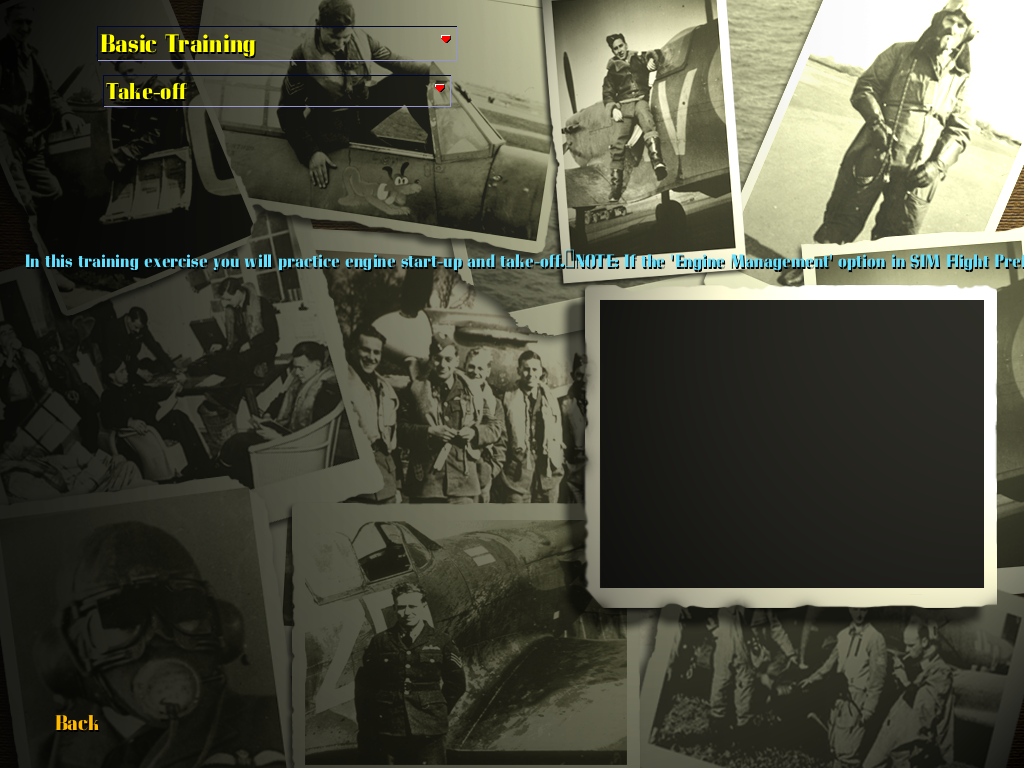
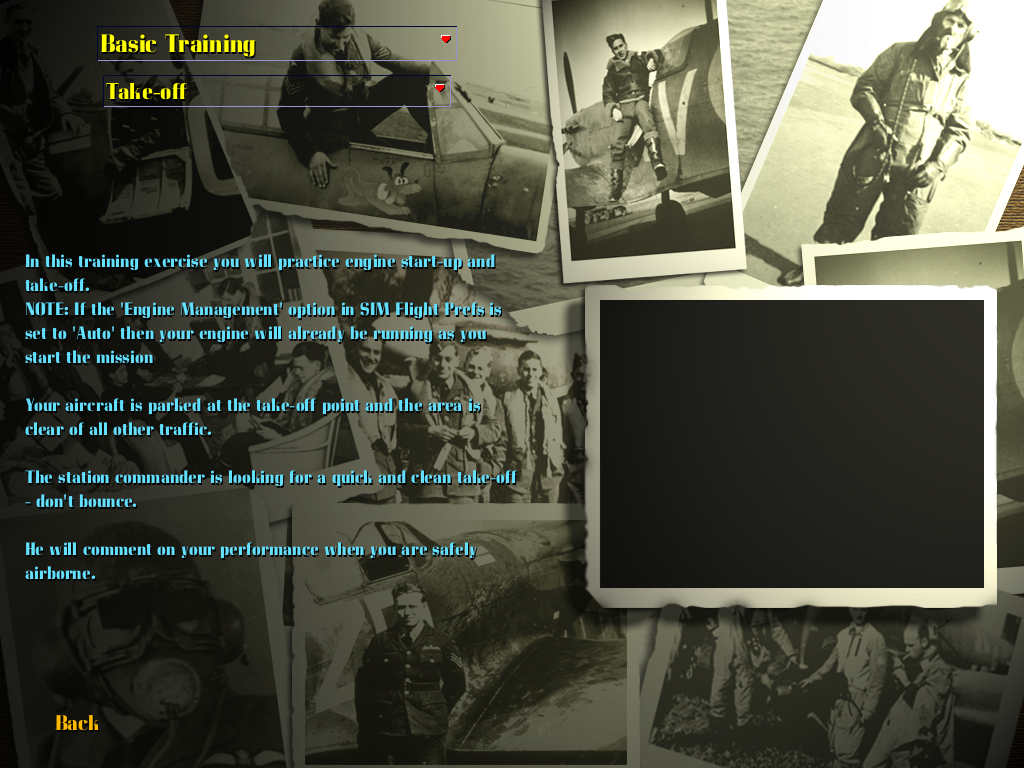
Scrum Sprint 127: label-render fidelity — DT_WORDBREAK word-wrap + '&' accelerator escape in CDC::DrawText
Two contained wins in the one compat method that renders every R* STATIC label
(afxwin.h CDC::DrawText). The genuine CRStaticCtrl::OnDraw draws prose via
DrawText(..., DT_LEFT+DT_WORDBREAK) but compat ignored DT_WORDBREAK and did no
'&' processing; combos/buttons/listboxes draw via ExtTextOut, so both fixes are
scoped to the static path and cannot touch combo/button text.

S127.1 word-wrap (R6.2; MA note 17 shared find): real greedy word-wrap honouring
explicit \n and DT_CENTER/RIGHT, clipped to box. ≥2-line-box guard so single-line
config labels never wrap (our stencil font is wider than gold's). Phase-select #16
+ Quick-Shots #2 descriptions now wrap in their boxes. BOB_NO_WORDWRAP reverts.

S127.2 '&' escape: Windows accelerator-prefix processing ("&&"->"&", DT_NOPREFIX-
aware) -> BDG "Cockpit && UI" renders "Cockpit & UI" (#8). BOB_NO_AMP_ESCAPE reverts.

Verdicts: #16 PARTIAL->CLOSE, #8 CLOSE, #2 improved (parity 16 CLOSE / 1 PARTIAL /
3 GAP of 19). Gates: build clean; 14-recipe headless sweep 14/14; surgical diffs,
no config-label wrap regression (Sound long labels single-line); safe default
./bob exit 0; flight frame-150 95.2% non-black on :0; dummy==GL cmp byte-identical
on mainmenu + the changed phaseselect. MA note 17 mechanism #2 (parent-rect clip)
assessed N/A; outbound BoB note = shared-doc §8o (MA copy synced byte-identical).

Changed region(s): [[0.0312, 0.3438, 0.5, 0.7812], [0.5, 0.3125, 1.0, 0.375]]

diff --git a/SRC/compat/afxwin.h b/SRC/compat/afxwin.h
@@ -634,16 +634,97 @@ public:
     }
     CSize GetOutputTextExtent(LPCSTR s, int len) const { return GetTextExtent(s, len); }
     int  DrawText(LPCSTR s, int len, LPRECT r, UINT format) {
-        /* R* static labels draw via DrawText (DT_LEFT/DT_CENTER). Render a single
-           line into the framebuffer at the rect, honouring left/centre alignment. */
-        if (m_bobScreen && s && r) {
-            char buf[256]; int n = len < 0 ? (int)strlen(s) : len; if (n > 255) n = 255;
-            memcpy(buf, s, n); buf[n] = 0;
-            int x = r->left, y = r->top;
-            if (format & DT_CENTER) { int tw = bob_gdi_text_width(buf, m_bobTextH); x = r->left + ((r->right - r->left) - tw) / 2; }
-            bob_gdi_text(m_bobVpX + x, m_bobVpY + y, buf, m_bobTextH, bobColor(m_textColor));
+        /* S127: real DrawText for R* STATIC labels (CRStaticCtrl::OnDraw is the only
+           caller — combos/buttons/listboxes draw via ExtTextOut). Honours
+           DT_WORDBREAK multi-line word-wrap (long prose was drawing one clipped line
+           running off the panel edge — the phase-select/QS descriptions; MA note 17
+           shared find) and Windows '&' accelerator-prefix processing ("&&"->"&", a
+           lone '&' removed — BDG's "Cockpit && UI" -> "Cockpit & UI", gold #8).
+           BOB_NO_WORDWRAP / BOB_NO_AMP_ESCAPE revert each. */
+        if (!s || !r) return m_bobTextH;
+        char raw[512]; int n = len < 0 ? (int)strlen(s) : len; if (n < 0) n = 0; if (n > 511) n = 511;
+        memcpy(raw, s, n); raw[n] = 0;
+
+        static int noAmp = -1; if (noAmp < 0) noAmp = getenv("BOB_NO_AMP_ESCAPE") ? 1 : 0;
+        char buf[512];
+        if (!noAmp && !(format & DT_NOPREFIX)) {
+            int j = 0;
+            for (int i = 0; raw[i] && j < 511; i++) {
+                if (raw[i] == '&') { if (raw[i+1] == '&') { buf[j++] = '&'; i++; } /* lone '&': prefix marker, dropped */ }
+                else buf[j++] = raw[i];
+            }
+            buf[j] = 0;
+        } else { memcpy(buf, raw, (size_t)n + 1); }
+
+        int boxw = r->right - r->left;
+        int pitch = (m_bobTextH > 0 ? m_bobTextH : 16) + 2;
+
+        static int noWrap = -1; if (noWrap < 0) noWrap = getenv("BOB_NO_WORDWRAP") ? 1 : 0;
+        /* Only wrap boxes tall enough to be a genuine multi-line area (>=2 lines):
+           config LABELS also pass DT_WORDBREAK but sit in single-line boxes — keep
+           their one-line render (our font may be wider than gold's, so wrapping a
+           label that fits on Windows would spill into the row below). Descriptions
+           (the tall PhaseDescription/QS statics) are the real wrap targets. */
+        bool wrap = (format & DT_WORDBREAK) && !(format & DT_SINGLELINE) && !noWrap
+                    && boxw > 8 && (r->bottom - r->top) >= 2 * pitch;
+
+        /* helper: place one line honouring DT_CENTER/DT_RIGHT within [left,right] */
+        if (!wrap) {
+            int tw = bob_gdi_text_width(buf, m_bobTextH);
+            int x = r->left;
+            if (format & DT_CENTER) x = r->left + (boxw - tw) / 2;
+            else if (format & DT_RIGHT) x = r->right - tw;
+            if (!(format & DT_CALCRECT) && m_bobScreen)
+                bob_gdi_text(m_bobVpX + x, m_bobVpY + r->top, buf, m_bobTextH, bobColor(m_textColor));
+            return m_bobTextH;
         }
-        return m_bobTextH;
+
+        /* greedy word-wrap; honour explicit '\n'. Clip vertically to the box for a
+           genuine multi-line area; a single-line box (h < 2*pitch) draws its one line. */
+        int y = r->top;
+        int clipBottom = (r->bottom - r->top) >= 2 * pitch ? r->bottom : 0x7fffffff;
+        char line[512]; int ll = 0;
+        int i = 0;
+        while (buf[i] || ll) {
+            char c = buf[i];
+            bool forceBreak = (c == '\n') || (c == 0);
+            if (c == '\n') i++;
+            if (!forceBreak) {
+                /* accumulate one word (up to the next space/newline/end) */
+                int ws = i; while (buf[i] && buf[i] != ' ' && buf[i] != '\n') i++;
+                int wl = i - ws;
+                /* build candidate line = current + optional space + word */
+                char cand[512]; int cl = 0;
+                memcpy(cand, line, ll); cl = ll;
+                if (cl && cl < 511) cand[cl++] = ' ';
+                for (int k = 0; k < wl && cl < 511; k++) cand[cl++] = buf[ws + k];
+                cand[cl] = 0;
+                if (ll == 0 || bob_gdi_text_width(cand, m_bobTextH) <= boxw) {
+                    memcpy(line, cand, cl + 1); ll = cl;
+                    while (buf[i] == ' ') i++;   /* swallow trailing spaces */
+                    if (buf[i]) continue;        /* more text -> keep packing */
+                    forceBreak = true;           /* end of string -> flush last line */
+                } else {
+                    /* word doesn't fit: flush current line, retry word on a fresh line */
+                    forceBreak = true;
+                    i = ws;                      /* re-process this word next iteration */
+                }
+            }
+            if (forceBreak) {
+                if (y + m_bobTextH > clipBottom) break;
+                line[ll] = 0;
+                int tw = bob_gdi_text_width(line, m_bobTextH);
+                int x = r->left;
+                if (format & DT_CENTER) x = r->left + (boxw - tw) / 2;
+                else if (format & DT_RIGHT) x = r->right - tw;
+                if (!(format & DT_CALCRECT) && m_bobScreen && ll)
+                    bob_gdi_text(m_bobVpX + x, m_bobVpY + y, line, m_bobTextH, bobColor(m_textColor));
+                y += pitch; ll = 0;
+                if (buf[i] == 0) break;
+            }
+        }
+        if (format & DT_CALCRECT) r->bottom = y;
+        return y - r->top;
     }
     UINT SetTextAlign(UINT) { return 0; }
     int  SetMapMode(int) { return 0; }

diff --git a/scrum.md b/scrum.md
@@ -176,7 +176,7 @@ The DoD increment shipped (bare `./bob` boots + plays, no env vars) and a human 
 | ID | Story | Pts | Status |
 |---|---|---|---|
 | R6.1 | **Front-end blit subsystem** — ◐ **CORE DONE (2026-06-21).** Built `bob_gdi_blit.cpp`: bitmap registry + DIB decoder (8/24/32/4/1-bit) + raster-op blit (SRCCOPY/AND/PAINT/INVERT) for `bob_blit`/`bob_stretchblit`. Wired pixel-backed `CBitmap` + memory-DC `CDC::SelectObject`/`BitBlt`/`StretchBlt` + `CreateDIBitmap` (`afxwin.h`/`compat_wingdi.h`) — the path `LoadInstances`/`MaskIcon`/`UpdateBitmaps` need. Verified: icon sheet decodes (1408×1024, dumped perfect) + blits to the framebuffer (`BOB_BLIT_TEST`). Remaining: drive `MaskIcon` from the hosted-combo/button OnDraw so dropdown arrows/box-art show on the front-end (the data + blit now exist). **Unblocks R4.2.** | 8 | ◐ |
-| R6.2 | **Font / DPI fidelity** — ◐ **multi-line text fixed (2026-06-21).** The huge-overlapping-text bug was `bob_ole_draw_panel` setting the font height = the control's BOX height — right for single-line labels/combos, but a tall multi-line text control (campaign PhaseDescription `CRStatic`) drew its font at the full box height. Fixed: cap the font at the single-line (16-DLU) height for multi-line boxes; single-line controls unchanged. campaignselect description now readable; config screens unregressed. Remaining: native-DLU base-font pass + multi-line word-wrap to fill the box. | 5 | ◐ |
+| R6.2 | **Font / DPI fidelity** — ◐ **multi-line text fixed (2026-06-21).** The huge-overlapping-text bug was `bob_ole_draw_panel` setting the font height = the control's BOX height — right for single-line labels/combos, but a tall multi-line text control (campaign PhaseDescription `CRStatic`) drew its font at the full box height. Fixed: cap the font at the single-line (16-DLU) height for multi-line boxes; single-line controls unchanged. campaignselect description now readable; config screens unregressed. **☑ multi-line word-wrap DONE (S127, 2026-08-02):** `CDC::DrawText` now implements real DT_WORDBREAK — the phase-select/QS descriptions wrap within their boxes (paragraph breaks preserved), ≥2-line-box guard keeps single-line labels intact; plus '&' accelerator escape ("Cockpit && UI"→"Cockpit & UI", #8). `BOB_NO_WORDWRAP`/`BOB_NO_AMP_ESCAPE` revert. Remaining: native-DLU base-font face/size pass (gold's large tab/heading faces). | 5 | ◐ |
 | R6.3 | **Remaining UI screens** — ◐ **OPTIONS TABS + DEBRIEF VERIFIED (2026-06-23).** All six options config tabs render as readable forms (GFX, More GFX, Controls, Sound, 2D, Sim — via `BOB_CONFIGSCREEN`), and the mission **debrief/readyroom** renders correct text ("54 Squadron", "Eagles Attack", "11:00") — both unblocked by the game-wide CString-varargs fix (R5.3). Remaining: loadout, diary, other debrief variants. | 8 | ◐ |
 | R6.4 | **Replay** — record + playback through the menu (the debrief Replay option). | 8 | ☐ |
 | R6.5 | **Save/load round-trip** — all game state (settings/campaign/replay) binary-compatible. | 5 | ☐ |
@@ -345,6 +345,21 @@ game boots + plays a Quick Mission end-to-end, no env vars; a human pilot has fl
   colors, columns and the settled-state date heading; dummy==GL `cmp` passes; bare `./bob` exits
   0 on real GL.
 
+### Sprint 127 — "Label-render fidelity" → *Increment: descriptions word-wrap, labels escape '&'* — **✅ CLOSED 2026-08-02 (8/8 pts; see §9 row 127 + PORT.md S127)**
+- **Sprint Goal:** close the Release-SP "remaining render classes" items that live in the one
+  compat method rendering every R\* static label (`CDC::DrawText`): multi-line word-wrap for
+  description statics (R6.2) and the '&'/"&&" accelerator escape (#8). Adopt MA note 17's
+  `CDC::DrawText DT_WORDBREAK` shared find on the BoB side.
+- **Committed (~8 pts):** S127.1 (5) DT_WORDBREAK word-wrap with the ≥2-line-box regression
+  guard; S127.2 (2) '&' accelerator-prefix escape (DT_NOPREFIX-aware, static path only);
+  S127.3 (1) cross-port note + real-GL DoD gates + dummy==GL `cmp`.
+- **Delivered:** #16 PARTIAL→CLOSE, #8 CLOSE, #2 improved (parity 16 CLOSE / 1 PARTIAL / 3 GAP
+  of 19). Build clean; 14-recipe headless sweep 14/14; surgical diffs, no config-label wrap
+  regression; flight frame-150 95.2% non-black on `:0`; dummy==GL `cmp` byte-identical on
+  mainmenu + the changed phaseselect. MA note 17 mechanism #2 (parent-rect clip) assessed N/A.
+- **Increment demo:** `BOB_AUTOCLICK=1,1 BOB_SHOT=380` (phase-select) shows the phase blurb
+  wrapped in its box; `BOB_CONFIGSCREEN=control BOB_SHOT=70` shows "Cockpit & UI".
+
 ---
 
 ## 7a. Forward roadmap — to "all functionality" (regroomed 2026-06-17)
@@ -392,6 +407,7 @@ Adapted to an autonomous single-agent cadence (a "session" = a sprint):
 
 | Sprint | Committed pts | Done pts | Increment shipped? | Notes |
 |---|---|---|---|---|
+| **127** | ~8 | 8 | ★ **Label-render fidelity: DT_WORDBREAK word-wrap + '&' accelerator escape in `CDC::DrawText` — #16 PARTIAL→CLOSE, #2/#8 improved; parity 16 CLOSE / 1 PARTIAL / 3 GAP** | **(2026-08-02)** Two contained wins in the single compat method rendering every R\* STATIC label (`afxwin.h CDC::DrawText`). ☑ **S127.1 (5) word-wrap:** the genuine `CRStaticCtrl::OnDraw` draws prose via `DrawText(..., DT_LEFT+DT_WORDBREAK)` but compat ignored it → the phase-select/QS training descriptions ran off the right edge as one clipped line. Real greedy word-wrap (fits box width via `bob_gdi_text_width`, honours explicit `\n`, DT_CENTER/RIGHT per line, clips to box); **≥2-line-box guard** so single-line config labels never wrap (our stencil font is wider than gold's — wrapping a fitting label would spill into the next row). #16 phase + #2 QS descriptions now wrap fully (paragraph breaks preserved). `BOB_NO_WORDWRAP` reverts. ☑ **S127.2 (2) '&' escape:** Windows accelerator-prefix processing ("&&"→"&", DT_NOPREFIX-aware) → BDG "Cockpit && UI" renders "Cockpit & UI" (#8); combos keep literal '&' (they draw via ExtTextOut, not DrawText). `BOB_NO_AMP_ESCAPE` reverts. ☑ **S127.3 (1) cross-port + gates:** MA note 17's `CDC::DrawText DT_WORDBREAK` shared find now implemented BoB-side (outbound note appended, shared doc synced); MA note 17 mechanism #2 (parent-rect clipping) assessed **N/A** (S124 membership filter covers BoB's dead controls; no out-of-bounds stray in the 14-screen sweep). **Gates:** build clean; 14-recipe headless sweep 14/14 exit 0; surgical diffs (controls 447px = just the removed '&'; Sound long labels stay single-line — no wrap regression); safe default `./bob` exit 0; flight frame-150 on `:0` 95.2% non-black exit 0; **dummy==GL `cmp` BYTE-IDENTICAL on mainmenu AND the changed phaseselect** (word-wrap is backend-independent). |
 | **126** | ~8 | 8 | ★ **Property-stream reader landed + capture-proven; GLX healed — all real-GL DoD gates PASS; dummy==GL byte-identical bar adopted (first-try pass)** | **(2026-07-27)** ☑ S126.1 (5): the salvaged reader (`9105e25` — real `CPropExchange` replaying each hosted R\*'s DLGINIT bag through its genuine `DoPropExchange`, all 5 control types) verified: 14-recipe headless sweep all exit 0; mainmenu pixel-identical; 13 screens changed *toward gold* — authored design colors land exactly (phase-date `(183,250,255)` = pixel-exact vs the full-res gold PNG; Controls cyan labels; QS yellow combos); #16 duplicate date GONE via the new covered-static settled-state emulation (`BOB_NO_COVER_ERASE` reverts) → #16 **PARTIAL→CLOSE**, #17 improved. Revert gates capture-verified (`BOB_NO_PROP_STREAM` == S125 modulo the independently-gated erase, 3338px in one bbox; `BOB_NO_DLGINIT_PROPS` whole-layer). ☑ S126.2 (2): GLX **HEALED** (probe first, per MA) — default `./bob` exit 0 on `:0`; flight frame-150 96.6% non-black exit 0 (the S125-blocked gate); **new bar: SDL-dummy capture `cmp`-identical to the real-GL capture — PASSES first try** (catches the uninit-PX class headlessly). ☑ S126.3 (1): MA note 16 §2 residual checks applied — both PASS (all 5 host ctors run unattached `DoPropExchange` → PX defaults written on every creation path incl. template statics; stock members member-initialized); **BoB note 17** written (stream layout + COLORREF-convert-once + art-FileNum trap + settled-state emulation + cmp-bar result), shared doc synced byte-identical (md5 `68e921a8…`), message file delivered to `~/ma/port/`. No regression: bare `./bob` 0; sweep 14/14. |
 | **125** | ~8 | 8 | ★ **#17 enter-name CLOSE (REdit hosted, gold line layout) + #16 tab-row spread fixed — DLGINIT design-prop slices; sprint closed across two sessions** | **Session 1 (2026-07-26, interrupted by session limit → salvage `ac873f6`):** REdit host (`SRC/REDIT/bob_ole_redit.cpp` + registration) — the genuine `CREditCtrl` hosted for CampaignEnterName's IDC_NAME (word-list machinery, blocking keys, `CommsPlayerName`); note 14 (PE-parser design) delivered to MA; lessons doc +96 synced. **Session 2 (2026-07-26, close-out):** GLX still wedged machine-wide (`X_GLXCreateNewContext` BadValue at `glxinfo -B` level) → the default-run DoD gate on `:0` stayed **BLOCKED**; headless proxy evidence instead: bare run under SDL-dummy boots clean through `InitInstance()` into `Run()` (no crash — the salvaged WIP has no startup regression). **#16 root-caused + fixed (tab row):** the genuine controls load design-time layout props in `DoPropExchange` from the DLGINIT bag; our hosts boot from an EMPTY `CPropExchange` — CSCampaign's tab listbox lost its authored columns (`A0..A3`=180px, `C2/C3`=right-aligned, decoded from boblang.dll RT240 and verified to reproduce gold's spread exactly) and the host's per-draw `Shrink()` tight-packed the rest. Landed: bag-column extraction (`bob_dlg_columns`, last-54-bytes anchor of version&4 bags) + host recreation of the authored columns + Shrink suppression for bag-column controls; RButton `m_alignment` from the persisted ResourceNumber's top byte (`bob_dlg_resnum`, caption-anchored; artless caption buttons only after a first-cut regression on art buttons) → **#17 lines snap to gold** ("Commander Bob" adjacent, "Luftwaffe/phase" adjacent, date centred): verdict **PARTIAL→CLOSE**; #16 **PARTIAL improved** (spread fixed; duplicate date = Windows dirty-region repaint effect, documented + deferred with the S126 property-stream-reader story). `BOB_NO_DLGINIT_PROPS` reverts (verified pixel-identical to pre-fix modulo pre-existing run variance). **Regression:** 14 headless recipes (11 screens + side/phase/entername reruns + strategic map) all exit 0; capture diffs surgical (8 config tabs/menu/QS pixel-identical; residual diffs 4px/68px caption-shadow shifts). Flight reach: GL-blocked. |
 | **124** | ~8 | 8 | ★ **BDG-oracle PE resources land — the S123 resource-delta root cause CLOSED; every config tab now CLOSE vs gold** | **PE `.rsrc` DIALOG+DLGINIT thin slice (2026-07-26; PO re-scope: finish well before the session limit).** Planning notes / SM rulings (standing approval, PO can overturn): **(a) oracle = the gold shots as-is = the BDG 0.99 patched build** — parity judged against BDG data, not the 2000 checkout's .rc; BDG-vs-source deltas tagged per-deviation so the ruling flips cheaply (`BOB_NO_PE_RSRC=1` reverts wholesale); **(b) sprint scoped to ~8 pts**: minimal PE extraction + ONE proof screen (Sim-Config Mission — doubling as the SP.2 missing-labels root-cause), then close. Delivered on the existing `bob_resources.cpp` loader (found: boblang.dll already parsed for LoadString!): (1) DIALOG (RT5) + DLGINIT (RT240) enumerators (offset-based, packing-safe); (2) `bob_dlgtemplate.cpp` PE-FIRST load feeding the same rect/caption tables (.rc = fallback only, never overwrites PE); (3) **template-driven static hosting** — the real Mission-tab root cause: `SMissionConfigure` DDX-binds 0 statics, and on Windows the dialog manager creates EVERY template item (`bob_ole_host_template_statics` in `CDialog::Create`); (4) **template-membership draw filter** (source-only controls BDG dropped aren't drawn — killed Sound's overlapped label + stray combos, QS page-ghost combos); (5) **faithful IDS→string-table caption resolution** (the genuine `CRStaticCtrl` `WM_GETSTRING` path → "Town and forest raises"/"Gamma Level"/"109 Fuel Capacity" exact). Verdicts: #6-#13 all **CLOSE** (were PARTIAL x5), #2 improved. No regression: bare 0; all 11 headless screens exit 0; strategic map clean. **Deferred to S125:** parser generalization + MA handoff design doc + outbound note 14 (PO session-budget constraint); enter-name edit hosting; tab wrap; Directives; QS tab recipe. |
@@ -453,6 +469,20 @@ R3 tail (effects/mirror, pilot-gated), R4.2+ campaign, R5 control & sim, R6 fron
 
 ## 10. Retrospective Log
 *(Newest on top. One improvement note per sprint.)*
+
+- _Sprint 127 (label-render fidelity):_ **When you implement a Windows drawing flag the game
+  already passes, scope the guard to the case the game actually needs — not the flag's full
+  generality.** `DT_WORDBREAK` is passed by EVERY R\* static (labels and descriptions alike),
+  but only the tall description boxes should visibly wrap; blindly wrapping on the flag would
+  have regressed every config label (our font is wider than gold's, so a label that fits on
+  Windows spills a line here). The ≥2-line-box guard turned a risky global change into a
+  zero-regression one — verified by the Sound tab's long labels staying single-line and the
+  surgical 447px controls diff. Lessons: (1) a one-line grep ("who calls DrawText?") proved
+  combos/buttons use ExtTextOut, making the '&'-escape safe before writing it — cheap scoping
+  beats defensive special-casing; (2) the dummy==GL `cmp` bar (S126) paid off again — it
+  confirmed the wrap renders byte-identically on both backends in one command; (3) adopting a
+  sibling-port note (MA 17's DT_WORDBREAK) is highest-value when the shared find maps to a
+  single method you own — implement + reply in the same sprint while the context is loaded.
 
 - _Sprint 126 (property-stream reader proven + GL gates return):_ **Probe the environment gate
   BEFORE planning around it, and verify a "wrong-looking" render against the primary oracle

diff --git a/doc/screen-parity.md b/doc/screen-parity.md
@@ -57,13 +57,13 @@ key screens (mainmenu, config-gfx, quickshots, phaseselect, strategic-map, cockp
 | # | Gold shot (16-xx-xx) | Screen | Native recipe (env beyond E) | Native capture | Verdict |
 |---|---|---|---|---|---|
 | 1 | 47-32 | Main menu (`title`) | `BOB_SHOT=40` | `native-mainmenu-2026-07-25.png` | **CLOSE** — art + menu placement match (menu now anchored at the game's own ListX/ListY=210,220). Deviations: last item "Website" vs gold "BDG 0.99" (BDG-patched string table); our stencil font vs gold's rounded gold face (R6.2 font pass). |
-| 2 | 47-38 | Quick Shots select (`quickview`/CSQuick1, Scenario page) | `BOB_STARTFLYING=click BOB_AUTOCLICK=0 BOB_SHOT=220` | `native-quickshots-2026-07-26.png` | **PARTIAL → improved (S124)** — background montage, mission combos, description, Back/Fly present; the page-2/3 ghost combos over page 1 are GONE (template-membership filter — BDG's template drops the source-only controls). Remaining: page-tab captions not drawn, description not word-wrapped (R6.2). |
+| 2 | 47-38 | Quick Shots select (`quickview`/CSQuick1, Scenario page) | `BOB_STARTFLYING=click BOB_AUTOCLICK=0 BOB_SHOT=220` | `native-quickshots-2026-07-27.png` | **PARTIAL → improved (S127: description now WORD-WRAPS)** — background montage, mission combos, Back/Fly present; the multi-paragraph training description now wraps within its box (blank-line paragraph breaks preserved) instead of running off the right edge as one clipped line (`CDC::DrawText` DT_WORDBREAK, S127; `BOB_NO_WORDWRAP` reverts). Page-2/3 ghost combos GONE (S124 template-membership filter). Remaining: page-tab captions not drawn (blocks #3), font face (R6.2). |
 | 3 | 47-45 | Quick Shots — Parameters/player page (Squadron/Aircraft/Duty/Callsign, name box) | page tab click — no scripted recipe yet | — | **GAP** — the page tabs are dialog controls, not menu items; needs a `BOB_CLICKXY` recipe once the tab captions render (deviation above). |
 | 4 | 47-57 | "Initialising 3D" loading screen (Dover art + red progress) | transient (drawn inside `StartFlying`→`Launch3d`) | — | **GAP (by design)** — our Launch3d bridge feeds the `Start3d` paint bits directly, so the progress screen never paints headlessly. Low value: transient screen. |
 | 5 | 48-09 | In-flight cockpit (Spitfire Mk I, on runway) | `BOB_BOOT_FRONTEND=1 BOB_DUMP_FRAME=150 BOB_DUMP_PATH=<p> BOB_EXIT_AFTER_DUMP=1` on `:0` under the display lock | `native-cockpit-2026-07-25.png` | **CLOSE** — cockpit frame, gunsight, instrument panel, HUD info line ("4ft Hdg 242 Speed 0Kts" matches gold's readout), mirror, clouds. Deviations: prop rendered as a static dark blade vs gold's blur disc; our white HUD bar + Tower ATC line vs gold's red-only info line; 800x600 vs gold ~1830x1080. |
 | 6 | 55-25 | PC Config — More GFX (`options3d2`) | `BOB_CONFIGSCREEN=gfx2 BOB_SHOT=70` | `native-config-moregfx-2026-07-26.png` (sbs: `sbs-config-moregfx.jpg`) | **CLOSE (S124: label-for-label gold)** — all 12 rows labeled exactly as gold: Filtering/Smoke Effects/Texture Quality/**Town and forest raises**/Routes/A-C Shadows/Item Shadows/Horizon Distance/**Detail Level**/G Effects/Injury Effects/White Outs (BDG captions via PE DLGINIT + IDS string-table resolution). Deviations: combo values (settings state), one stray box artifact at G Effects, tab-row spread, font face. |
 | 7 | 55-41 | PC Config — GFX (`options3d`) | `BOB_CONFIGSCREEN=gfx BOB_SHOT=70` | `native-config-gfx-2026-07-26.png` | **CLOSE (S124: BDG row set + captions)** — gold's row set incl. the BDG-added **3D Resolution / Campaign Resolution / Map Screen** rows, captions exact (**Gamma Level**, **Weather Detail**). Deviations: Campaign Resolution / Map Screen rows are label-only (the 2000 game code has no combo member to bind — BDG-code delta, unfixable data-side), our "BoB Linux OpenGL backend" driver string (faithful for the port), tab-row spread, font. |
-| 8 | 55-52 | PC Config — Controls (`controloptions`/SController) | `BOB_CONFIGSCREEN=control BOB_SHOT=70` | `native-config-controls-2026-07-26.png` | **CLOSE (S124)** — device line, axes/buttons count, Use For FF / Gun Fire / Buffet / Aerodynamic / Airframe rows, Dead Zone / Mode / Flip headers, and the Stick/Rudder/Throttle/Prop Pitch/View Pan/Zoom/Cockpit & UI/Gunner row labels all render (were missing/overlapped). Deviations: a few mid-grid rows unlabeled, "&&" drawn literally (no accelerator-escape processing), Calibrate/checkbox art not drawn. |
+| 8 | 55-52 | PC Config — Controls (`controloptions`/SController) | `BOB_CONFIGSCREEN=control BOB_SHOT=70` | `native-config-controls-2026-07-27.png` | **CLOSE (S127: "&&" escape fixed)** — device line, axes/buttons count, Use For FF / Gun Fire / Buffet / Aerodynamic / Airframe rows, Dead Zone / Mode / Flip headers, and the Stick/Rudder/Throttle/Prop Pitch/View Pan/Zoom/**Cockpit & UI**/Gunner row labels all render. The BDG label "Cockpit && UI" now renders "Cockpit & UI" (Windows '&' accelerator-prefix processing in `CDC::DrawText`, S127; combo device names' literal '&' untouched — they draw via ExtTextOut; `BOB_NO_AMP_ESCAPE` reverts). Deviations: a few mid-grid rows unlabeled, Calibrate/checkbox art not drawn, font face. |
 | 9 | 55-59 | PC Config — Sound (`soundoptions`) | `BOB_CONFIGSCREEN=sound BOB_SHOT=70` | `native-config-sound-2026-07-26.png` | **CLOSE (S124: structurally 1:1 with gold)** — Sound Driver header + wide driver combo + all 7 labeled rows in gold order (3d SFX Volume/SFX Processing/UI SFX Vol/Ambient SFX Vol/Radio Chatter Volume/Engine Volume/SFX Quality). The overlapped top label + stray top/bottom combos are GONE (template filter: BDG dropped the source's music combos). Deviations: combo values (settings state), "Default" vs gold "Primary Sound Driver" (faithful port string), font. |
 | 10 | 56-15 | Sim Config — Flight (`flightoptions`) | `BOB_CONFIGSCREEN=flight BOB_SHOT=70` (`sim` also works) | `native-sim-flight-2026-07-26.png` | **CLOSE (S124: row-for-row gold)** — FLIGHT OPTIONS header row + all 10 rows labeled incl. the previously-missing Engine Management / Prop Pitch Control and gold's **109 Fuel Capacity** (BDG). Deviations: combo values (settings state), font. |
 | 11 | 56-21 | Sim Config — Game (`gameoptions`) | `BOB_CONFIGSCREEN=game BOB_SHOT=70` | `native-sim-game-2026-07-26.png` | **CLOSE (S124)** — all 10 rows labeled+paired (Weapons/Vulnerable To Fire/Ground Collisions/Midair Collisions/Complex A.I. Pilots/Accel Off/Target Size/Auto Canopy/Text Info/**Aircraft Names**). Deviations: combo values (settings state), font. |
@@ -71,7 +71,7 @@ key screens (mainmenu, config-gfx, quickshots, phaseselect, strategic-map, cockp
 | 13 | 56-45 | Sim Config — Views (`vieweroptions`) | `BOB_CONFIGSCREEN=views BOB_SHOT=70` | `native-sim-views-2026-07-26.png` | **CLOSE (S124)** — 9 rows labeled+paired with gold captions (Auto External, View Mode Select, Padlock When Visible, Info Line, Head Up Display …); the S123 overlapped Info Line/Camera Colour pair is gone (template filter). Deviations: combo values, font. |
 | 14 | 56-53 | Campaign side-select (RAF/Luftwaffe) | `BOB_AUTOCLICK=1 BOB_SHOT=250` | `native-campaign-sideselect-2026-07-25.png` | **CLOSE** — art identical, RAF/Luftwaffe/Back hit-polygons live. Deviation: captions tiny vs gold's large gold face (the screen has no textlist coords; captions are art-adjacent). |
 | 15 | 57-36 | Campaign side-select (near-duplicate of #14) | same | same | same — **flag for PO: #14/#15 duplicates** (19 vs "17" count). |
-| 16 | 57-47 | Campaign phase select (`campaignselect`) | `BOB_AUTOCLICK=1,1 BOB_SHOT=380` | `native-campaign-phaseselect-2026-07-27.png` | **PARTIAL → CLOSE (S126: duplicate date GONE — covered-static erase emulation; date color pixel-exact vs gold `(183,250,255)`; tabs gold-faced from the persisted stream; remaining deviations: description unwrapped (R6.2), tab face size)**. _S125: tab row spreads as gold._ Earlier history: **PARTIAL → improved (S125: tab row spreads as gold)** — the phase tabs now spread across the full row with gold's exact column layout: the DLGINIT bag persists the listbox's authored columns (`A0..A3`=180px, `C2/C3`=right-aligned) which the empty-bag host boot had lost; Convoys/Eagle Attack left-aligned, Critical Period/Blitz right-aligned to their column ends, matching gold's spacing (`BOB_NO_DLGINIT_PROPS` reverts). Remaining deviations: duplicated date heading top-left (RStatic `IDC_RSTATICDATE` 1227 — in BDG's template WS_VISIBLE with a design caption resolving to the date; on Windows it is covered by the tab-row listbox's background re-blit after the first repaint and never invalidated, while our panel redraws every control every frame — paint-model story, deferred), description unwrapped (R6.2), tab font small vs gold's large face (R6.2). |
+| 16 | 57-47 | Campaign phase select (`campaignselect`) | `BOB_AUTOCLICK=1,1 BOB_SHOT=380` | `native-campaign-phaseselect-2026-07-27b.png` | **CLOSE (S127: description now WORD-WRAPS — the multi-line phase blurb wraps within its box, paragraph break preserved, instead of one clipped line off the right edge; `BOB_NO_WORDWRAP` reverts). S126: duplicate date GONE — covered-static erase emulation; date color pixel-exact vs gold `(183,250,255)`; tabs gold-faced from the persisted stream. Remaining: tab face size (R6.2)**. _S125: tab row spreads as gold._ Earlier history: **PARTIAL → improved (S125: tab row spreads as gold)** — the phase tabs now spread across the full row with gold's exact column layout: the DLGINIT bag persists the listbox's authored columns (`A0..A3`=180px, `C2/C3`=right-aligned) which the empty-bag host boot had lost; Convoys/Eagle Attack left-aligned, Critical Period/Blitz right-aligned to their column ends, matching gold's spacing (`BOB_NO_DLGINIT_PROPS` reverts). Remaining deviations: duplicated date heading top-left (RStatic `IDC_RSTATICDATE` 1227 — in BDG's template WS_VISIBLE with a design caption resolving to the date; on Windows it is covered by the tab-row listbox's background re-blit after the first repaint and never invalidated, while our panel redraws every control every frame — paint-model story, deferred), description unwrapped (R6.2), tab font small vs gold's large face (R6.2). |
 | 17 | 57-55 | Campaign enter-name (`campaignentername`) | `BOB_AUTOCLICK=1,1,1 BOB_SHOT=520` | `native-campaign-entername-2026-07-27.png` | **CLOSE (S126: date/labels in gold's large gold face + authored colors from the persisted stream; S125: REdit hosted + gold line layout)** — the name edit is the genuine hosted `CREditCtrl` (S125 REdit host: caption/word-list machinery live, blocking-keys + `CommsPlayerName` reach it), and the line layout now matches gold structurally: "Commander Bob" adjacent (IDC_ROLE right-aligned per its persisted alignment byte), "Luftwaffe <phase>" adjacent (IDC_SIDE right / IDC_PERIOD left), date centred. Phase/date strings differ only by selected phase (state). Deviations: caret line not drawn in the capture (flash-timer state), font face (R6.2), typed-input not yet harness-verified headlessly (no key-injection harness; deferred with the caret check). |
 | 18 | 58-08 | Strategic map + LW Directives dialog | directives dialog not natively reachable yet | — | **GAP** — the OOB info-dialog subsystem renders Bases etc. (S113-S117); the LW Directives dialog is a toolbar dialog not yet wired. Map behind it: see #19. |
 | 19 | 58-19 | Strategic map (LW campaign, raids/routes) | `BOB_AUTOCLICK=1,1,1,1 BOB_MAP_TIMER=8 BOB_SHOT=700..1200` | `native-strategic-map-2026-07-25.png` | **CLOSE** — terrain, sectors A–E/Y/Z, city labels, No.11 Group, full unit-icon layer (green RAF / blue / yellow), footer event log + date-clock ("10 July 11:54 x1"), both LW toolbar rows, right ruler. Deviations: no raid stacks/route lines in the capture (fresh Convoys day, paused-start; gold is 12 August Eagle Attack at x300 with live raids), ruler band plain vs gold's wooden art, accel transport buttons not in shot. |
@@ -107,13 +107,21 @@ key screens (mainmenu, config-gfx, quickshots, phaseselect, strategic-map, cockp
    FontNum/FontNum2 (gold's large tab/heading faces), fore/shadow colors, RStatic
    numeric ResourceNumber (the faithful caption-resolution path — would settle #16's
    duplicate date), REdit props.
-4. **Remaining render classes:** multi-line word-wrap for description statics (R6.2);
-   page-switching dialogs (`MoveWindow` offsets not tracked); native-DLU
-   font face/size pass (R6.2); dirty-region repaint model (covered-control text is
-   erased on Windows after the first overlapping repaint — #16's duplicate date);
-   accelerator-escape "&&"→"&" in label draw (#8); QS page-tab captions/recipe (#3);
-   LW Directives dialog wiring (#18); headless key-injection harness (#17 typed-input
-   + caret verification).
+4. **Remaining render classes:** ~~multi-line word-wrap for description statics (R6.2)~~
+   **☑ CLOSED S127** (`CDC::DrawText` DT_WORDBREAK; only multi-line-height boxes wrap so
+   single-line config labels are untouched; `BOB_NO_WORDWRAP` reverts — #2 QS + #16 phase
+   descriptions wrap); ~~accelerator-escape "&&"→"&" in label draw (#8)~~ **☑ CLOSED S127**
+   (Windows '&' prefix processing in the static `DrawText` path, DT_NOPREFIX-aware; combos
+   keep literal '&' via ExtTextOut; `BOB_NO_AMP_ESCAPE` reverts). Still open: page-switching
+   dialogs (`MoveWindow` offsets not tracked); native-DLU font face/size pass (R6.2);
+   dirty-region repaint model (S126 covered-static erase covers #16); QS page-tab
+   captions/recipe (#3); LW Directives dialog wiring (#18); headless key-injection harness
+   (#17 typed-input + caret verification).
+5. **Parent-rect clipping (MA note 17 mechanism #2) — assessed N/A for BoB (S127).** MA
+   clips template controls parked fully outside the dialog client rect. BoB's dead controls
+   are already removed by the S124 template-membership filter, and no out-of-client-rect
+   stray draws across the 14-screen headless sweep — no current BoB symptom; adopt the
+   distinct filter if one surfaces.
 
 ## PO questions
 

diff --git a/doc/ROWAN_ENGINE_LINUX_PORT_NOTES.md b/doc/ROWAN_ENGINE_LINUX_PORT_NOTES.md
@@ -1514,6 +1514,52 @@ cut `Rbutton.ocx` (lowercase 'b') out of view and briefly "established" that RBu
 installed -- which would have closed the story as "the resources don't ship". Same family as
 §8k(3)/§8m(2): a tool's own limit misread as evidence about the system.
 
+## 8o. `CDC::DrawText` DT_WORDBREAK + '&' escape — scope the guard to the case, not the flag (BoB S127) **[ENGINE]**
+
+*Implements the shared find MA flagged in note 17 (§8f tail): "compat `CDC::DrawText` must
+implement real `DT_WORDBREAK`/multi-line (CRStaticCtrl draws all long prose through it —
+unwrapped text running off a panel edge is this, not a layout bug)."*
+
+**(1) Only `CRStaticCtrl` reaches `DrawText`; every other R\* control draws via
+`ExtTextOut`/`TextOut`.** One grep settles the blast radius before you write a line
+(`RCOMBOC/RBUTTONC/RLISTBXC` all `ExtTextOut`). That means BOTH fixes below live entirely in
+the static `DrawText` path and cannot touch combo/button/listbox text — no special-casing
+needed. `CRStaticCtrl::OnDraw` calls `pdc->DrawText(m_string, rc, DT_LEFT+DT_WORDBREAK
+(+DT_TABSTOP))` for non-central text, three times when `m_FontNum<0` (two shadow passes at
+offset + the colour pass) — your wrap must be deterministic so the shadow lines register.
+
+**(2) ★ DT_WORDBREAK is passed by EVERY static — labels AND descriptions — so guard the wrap
+by BOX HEIGHT, not by the flag.** Config LABELS ("Radio Chatter Volume") sit in single-line
+boxes and also carry DT_WORDBREAK; if you wrap on the flag alone, any label whose text is
+wider in your font than in gold's (our stb/stencil face is wider) wraps to a 2nd line and
+spills into the row below — a fresh regression on screens that were already CLOSE. Fix: wrap
+only boxes tall enough for ≥2 lines (`(bottom-top) >= 2*pitch`); single-line boxes keep the
+one-line render. The tall PhaseDescription / QS-training statics are the only real targets.
+This is the same "filter, don't cap" instinct as §8m but applied to a draw flag: let the box
+geometry — which you already have from the template — decide, don't trust the flag globally.
+(BoB had earlier *capped the font* for tall boxes, R6.2/S11; S127 replaced that with real
+wrapping at the one-line font size.) Greedy word packing + honour explicit `\n` (paragraph
+breaks in the prose) + per-line DT_CENTER/DT_RIGHT + vertical clip to the box.
+
+**(3) '&' accelerator escape belongs in the same method (Windows semantics).** `DrawText`
+without DT_NOPREFIX treats '&' as an accelerator prefix: "&&"→literal '&', a lone '&'
+marks/removes the next char. BDG's Controls label "Cockpit && UI" was rendering literally;
+processing it → "Cockpit & UI" (gold). Because only statics hit `DrawText`, combo device
+names keep their literal '&' ("...Axis 0 & Axis 1", drawn via ExtTextOut) automatically.
+Gate each independently (`BOB_NO_WORDWRAP` / `BOB_NO_AMP_ESCAPE`).
+
+**(4) Verify backend-independence with the dummy==GL `cmp` bar (§8f).** The wrap is pure
+integer text metrics, so a headless SDL-dummy capture of a wrapped screen must be
+byte-identical to the real-GL capture — S127 confirmed it on the changed phaseselect screen
+in one `cmp`. If they differ, your wrap is reading uninitialised metrics, not "AA noise".
+
+**(5) MA note 17 mechanism #2 (parent-rect clipping) — assessed N/A on the BoB side (S127).**
+BoB's S124 template-membership filter already removes the dead controls MA clips by client
+rect, and no in-template-but-out-of-client-rect stray drew across BoB's 14-screen headless
+sweep. The mechanisms are genuinely distinct (a control CAN be a template member yet parked
+outside the client rect), so this is "checked, no current symptom", not "same fix" — adopt if
+one surfaces.
+
 ## 9. What's BoB-specific (verify for MiG Alley) **[GAME]**
 
 - **Map/world & campaign rules** (Channel/1940 vs Korea/1950s), flight models (props vs jets),

diff --git a/PORT.md b/PORT.md
@@ -1,5 +1,47 @@
 # Rowan's Battle of Britain — Linux Native Port
 
+> ## S127 (2026-08-02, Sprint 127): label-render fidelity — DT_WORDBREAK word-wrap + '&' accelerator escape in `CDC::DrawText`; #16 PARTIAL→CLOSE, #2/#8 improved; all DoD gates pass
+>
+> **Two contained, verified wins in the one compat method that renders every R\* STATIC
+> label — `CDC::DrawText` (`afxwin.h`).** Discovery: the genuine `CRStaticCtrl::OnDraw`
+> (RSTATICC.CPP) draws all prose through `pdc->DrawText(m_string, rc, DT_LEFT+DT_WORDBREAK
+> +DT_TABSTOP)`, but our compat `DrawText` ignored `DT_WORDBREAK` and did no '&' processing;
+> combos/buttons/listboxes draw via `ExtTextOut`/`TextOut` (confirmed by grep), so both fixes
+> are scoped to the static path only and cannot touch combo/button text.
+>
+> - **DT_WORDBREAK word-wrap (R6.2; MA note 17 shared find).** Real greedy word-wrap: packs
+>   words into lines that fit the box width (`bob_gdi_text_width`), honours explicit `\n`
+>   (paragraph breaks), and DT_CENTER/DT_RIGHT per line; vertically clips to the box.
+>   **Guard against label regressions:** only boxes tall enough for ≥2 lines wrap — config
+>   LABELS also pass DT_WORDBREAK but sit in single-line boxes, and our stencil font is wider
+>   than gold's, so wrapping a label that fits on Windows would spill into the row below;
+>   single-line boxes keep their one-line render. The tall PhaseDescription / QS-training
+>   statics are the real targets. **Result:** #16 phase-select and #2 QS descriptions now wrap
+>   fully within their boxes (multi-paragraph, blank-line breaks preserved) instead of one
+>   clipped line running off the right edge. `BOB_NO_WORDWRAP` reverts.
+> - **'&' accelerator-prefix escape (#8).** Windows `DrawText` (no DT_NOPREFIX) treats '&' as
+>   an accelerator prefix: "&&"→literal '&', a lone '&' marks/removes. BDG's Controls label
+>   "Cockpit && UI" now renders "Cockpit & UI". DT_NOPREFIX-aware; combo device names keep
+>   their literal '&' ("...Axis 0 & Axis 1") since they draw via ExtTextOut. `BOB_NO_AMP_ESCAPE`
+>   reverts.
+>
+> **Verification.** Build clean; **14-recipe headless sweep all exit 0**; surgical diffs vs
+> the pre-S127 build — controls bbox (224,552,260,568) 447px (just the removed '&'), phase
+> bbox (250,504,1024,640) 21946px (the wrap), QS bbox (25,249,1024,582) 35113px (the wrap);
+> **Sound config's long labels ("Radio Chatter Volume") stay single-line — no wrap
+> regression** (the ≥2-line guard). Real-GL DoD gates (gl-lock, shared display with the Julia
+> Racer session): safe default `./bob` exits 0 (headless, BOB_NO_RUN); flight `BOB_BOOT_FRONTEND`
+> frame-150 on `:0` **95.2% non-black, exit 0**; **dummy==GL `cmp` BYTE-IDENTICAL** on mainmenu
+> AND on the changed phaseselect screen (the word-wrap renders identically on both backends —
+> no uninit-PX garbage). **Verdicts:** #16 **PARTIAL→CLOSE**, #8 CLOSE ('&&' deviation retired),
+> #2 improved (description wraps; still PARTIAL on page-tab captions #3). Parity now
+> **16 CLOSE / 1 PARTIAL / 3 GAP** of 19. **Cross-port:** MA note 17's `CDC::DrawText
+> DT_WORDBREAK` shared find is now implemented on the BoB side (outbound BoB note appended to
+> the shared lessons doc); MA note 17 mechanism #2 (parent-rect clipping) assessed **N/A** for
+> BoB (S124 membership filter already removes BoB's dead controls; no out-of-bounds stray in
+> the 14-screen sweep). Files: `SRC/compat/afxwin.h` (`CDC::DrawText`). Evidence:
+> `doc/parity/native-{quickshots,config-controls,campaign-phaseselect}-2026-07-27*.png`.
+
 > ## S126 (2026-07-27, Sprint 126): property-stream reader LANDED + capture-proven; GLX HEALED — real-GL DoD gates pass; dummy==GL byte-identical bar adopted (passes first try)
 >
 > **The S126 WIP (salvage `9105e25`) is verified and closed.** The persisted property-stream

diff --git a/RUNNING.md b/RUNNING.md
@@ -18,7 +18,7 @@ Rebuild: `cd /home/admin/bob/build && ninja bob`.
 | What | Where |
 |---|---|
 | Backlog (Releases R1–R7 + SP) + burndown | `scrum.md` — Release SP is the screen-parity epic; §9 burndown |
-| Per-gold-shot parity verdicts | `doc/screen-parity.md` — currently 14 CLOSE / 2 PARTIAL / 3 GAP of 19 |
+| Per-gold-shot parity verdicts | `doc/screen-parity.md` — currently 16 CLOSE / 1 PARTIAL / 3 GAP of 19 |
 | Side-by-side captures | `doc/parity/` |
 | Engineering evidence log (newest first) | `PORT.md` |
 | Live product snapshot | `STATUS.md` |
@@ -28,16 +28,20 @@ Gold standard: `/run/media/admin/BEA6-BBCE/bob/` (19 PNGs). Oracle ruling: the
 gold shots as-is = the BDG 0.99 patched build (dialogs/strings read from
 `boblang.dll` PE resources since S124; `BOB_NO_PE_RSRC=1` reverts).
 
-## Current state (2026-07-27)
+## Current state (2026-08-02)
 
-- S124 closed (`6f82c00`): PE resource layer, all 8 config tabs CLOSE vs gold.
-- S125 closed (`533aba9`): enter-name CLOSE, phase-select column spread fixed.
 - S126 closed (`6ab411d`): property-stream reader (`9105e25`) capture-proven —
   14-recipe sweep 14/14, 13 screens moved toward gold, #16 duplicate-date fixed
-  (covered-static settled-state erase; `BOB_NO_COVER_ERASE` reverts) → #16 CLOSE.
-- GL gates RESTORED (GLX wedge healed machine-wide): default-run exit-0 and the
-  flight frame-150 gate both pass. New standing acceptance bar: SDL-dummy
-  `BOB_SHOT` capture must be byte-identical (`cmp`) to the real-GL capture.
-- Cross-port: MA note 17 inbound (`3bf5cc8`) — template-visibility routing
-  checklist (parent-rect clipping + `!WS_VISIBLE` initial state), DrawText
-  `DT_WORDBREAK`, device-presence determinism. Not yet processed by a BoB sprint.
+  (covered-static settled-state erase) → #16 CLOSE.
+- **S127 closed: label-render fidelity.** `CDC::DrawText` now implements real
+  DT_WORDBREAK word-wrap (phase-select #16 + QS #2 descriptions wrap in their
+  boxes; ≥2-line-box guard keeps config labels single-line — no regression) and
+  '&' accelerator escape ("Cockpit && UI"→"Cockpit & UI", #8). `BOB_NO_WORDWRAP`
+  / `BOB_NO_AMP_ESCAPE` revert. → **#16 PARTIAL→CLOSE, #8 CLOSE, #2 improved**
+  (parity 16 CLOSE / 1 PARTIAL / 3 GAP of 19).
+- GL gates PASS: safe default `./bob` exit 0; flight frame-150 95.2% non-black on
+  `:0`; dummy==GL `cmp` byte-identical on mainmenu + the changed phaseselect.
+- Cross-port: MA note 17's `DrawText DT_WORDBREAK` shared find now implemented
+  BoB-side (S127) — outbound BoB note = shared-doc §8o, MA copy synced
+  byte-identical. MA note 17 mechanism #2 (parent-rect clip) assessed N/A for BoB.
+  Inbound MA notes 18–25 (§8g–8n) logged; not yet each mapped to a BoB sprint.

diff --git a/STATUS.md b/STATUS.md
@@ -7,7 +7,16 @@ Branch: `linux-port` · Build: 32-bit i386 ELF (`gcc -m32`), SDL2 + OpenGL + Ope
 `-fpack-struct=1`. Game sources stay unedited; the port lives in `SRC/compat/` + the
 `BOB_*` env-gated boot scaffolds.
 
-> **Latest session (S124, 2026-07-26):** **BDG-oracle PE resources** — the port now reads the
+> **Latest session (S127, 2026-08-02):** **Label-render fidelity** — compat `CDC::DrawText` now
+> implements real DT_WORDBREAK word-wrap (the phase-select and Quick-Shots descriptions wrap
+> inside their boxes, paragraph breaks preserved, instead of one clipped line off the panel edge)
+> and Windows '&' accelerator escape ("Cockpit && UI" → "Cockpit & UI"). A ≥2-line-box guard keeps
+> single-line config labels untouched (no regression). Parity now **16 CLOSE / 1 PARTIAL / 3 GAP**
+> of 19 gold shots (#16 PARTIAL→CLOSE, #8 CLOSE, #2 improved). `BOB_NO_WORDWRAP` / `BOB_NO_AMP_ESCAPE`
+> revert. dummy==GL `cmp` byte-identical on the changed screens. Implements MA note 17's shared
+> `DrawText DT_WORDBREAK` find (outbound BoB note = shared-doc §8o).
+>
+> Prior (S124, 2026-07-26): **BDG-oracle PE resources** — the port now reads the
 > installed build's PE `.rsrc` DIALOG/DLGINIT (`English/TEXT/boblang.dll` = BDG 0.99, the parity
 > oracle per SM ruling) instead of the source checkout's `.rc`: BDG rects/rows, faithful
 > IDS→string-table captions, template-driven hosting of non-DDX label statics, and a
